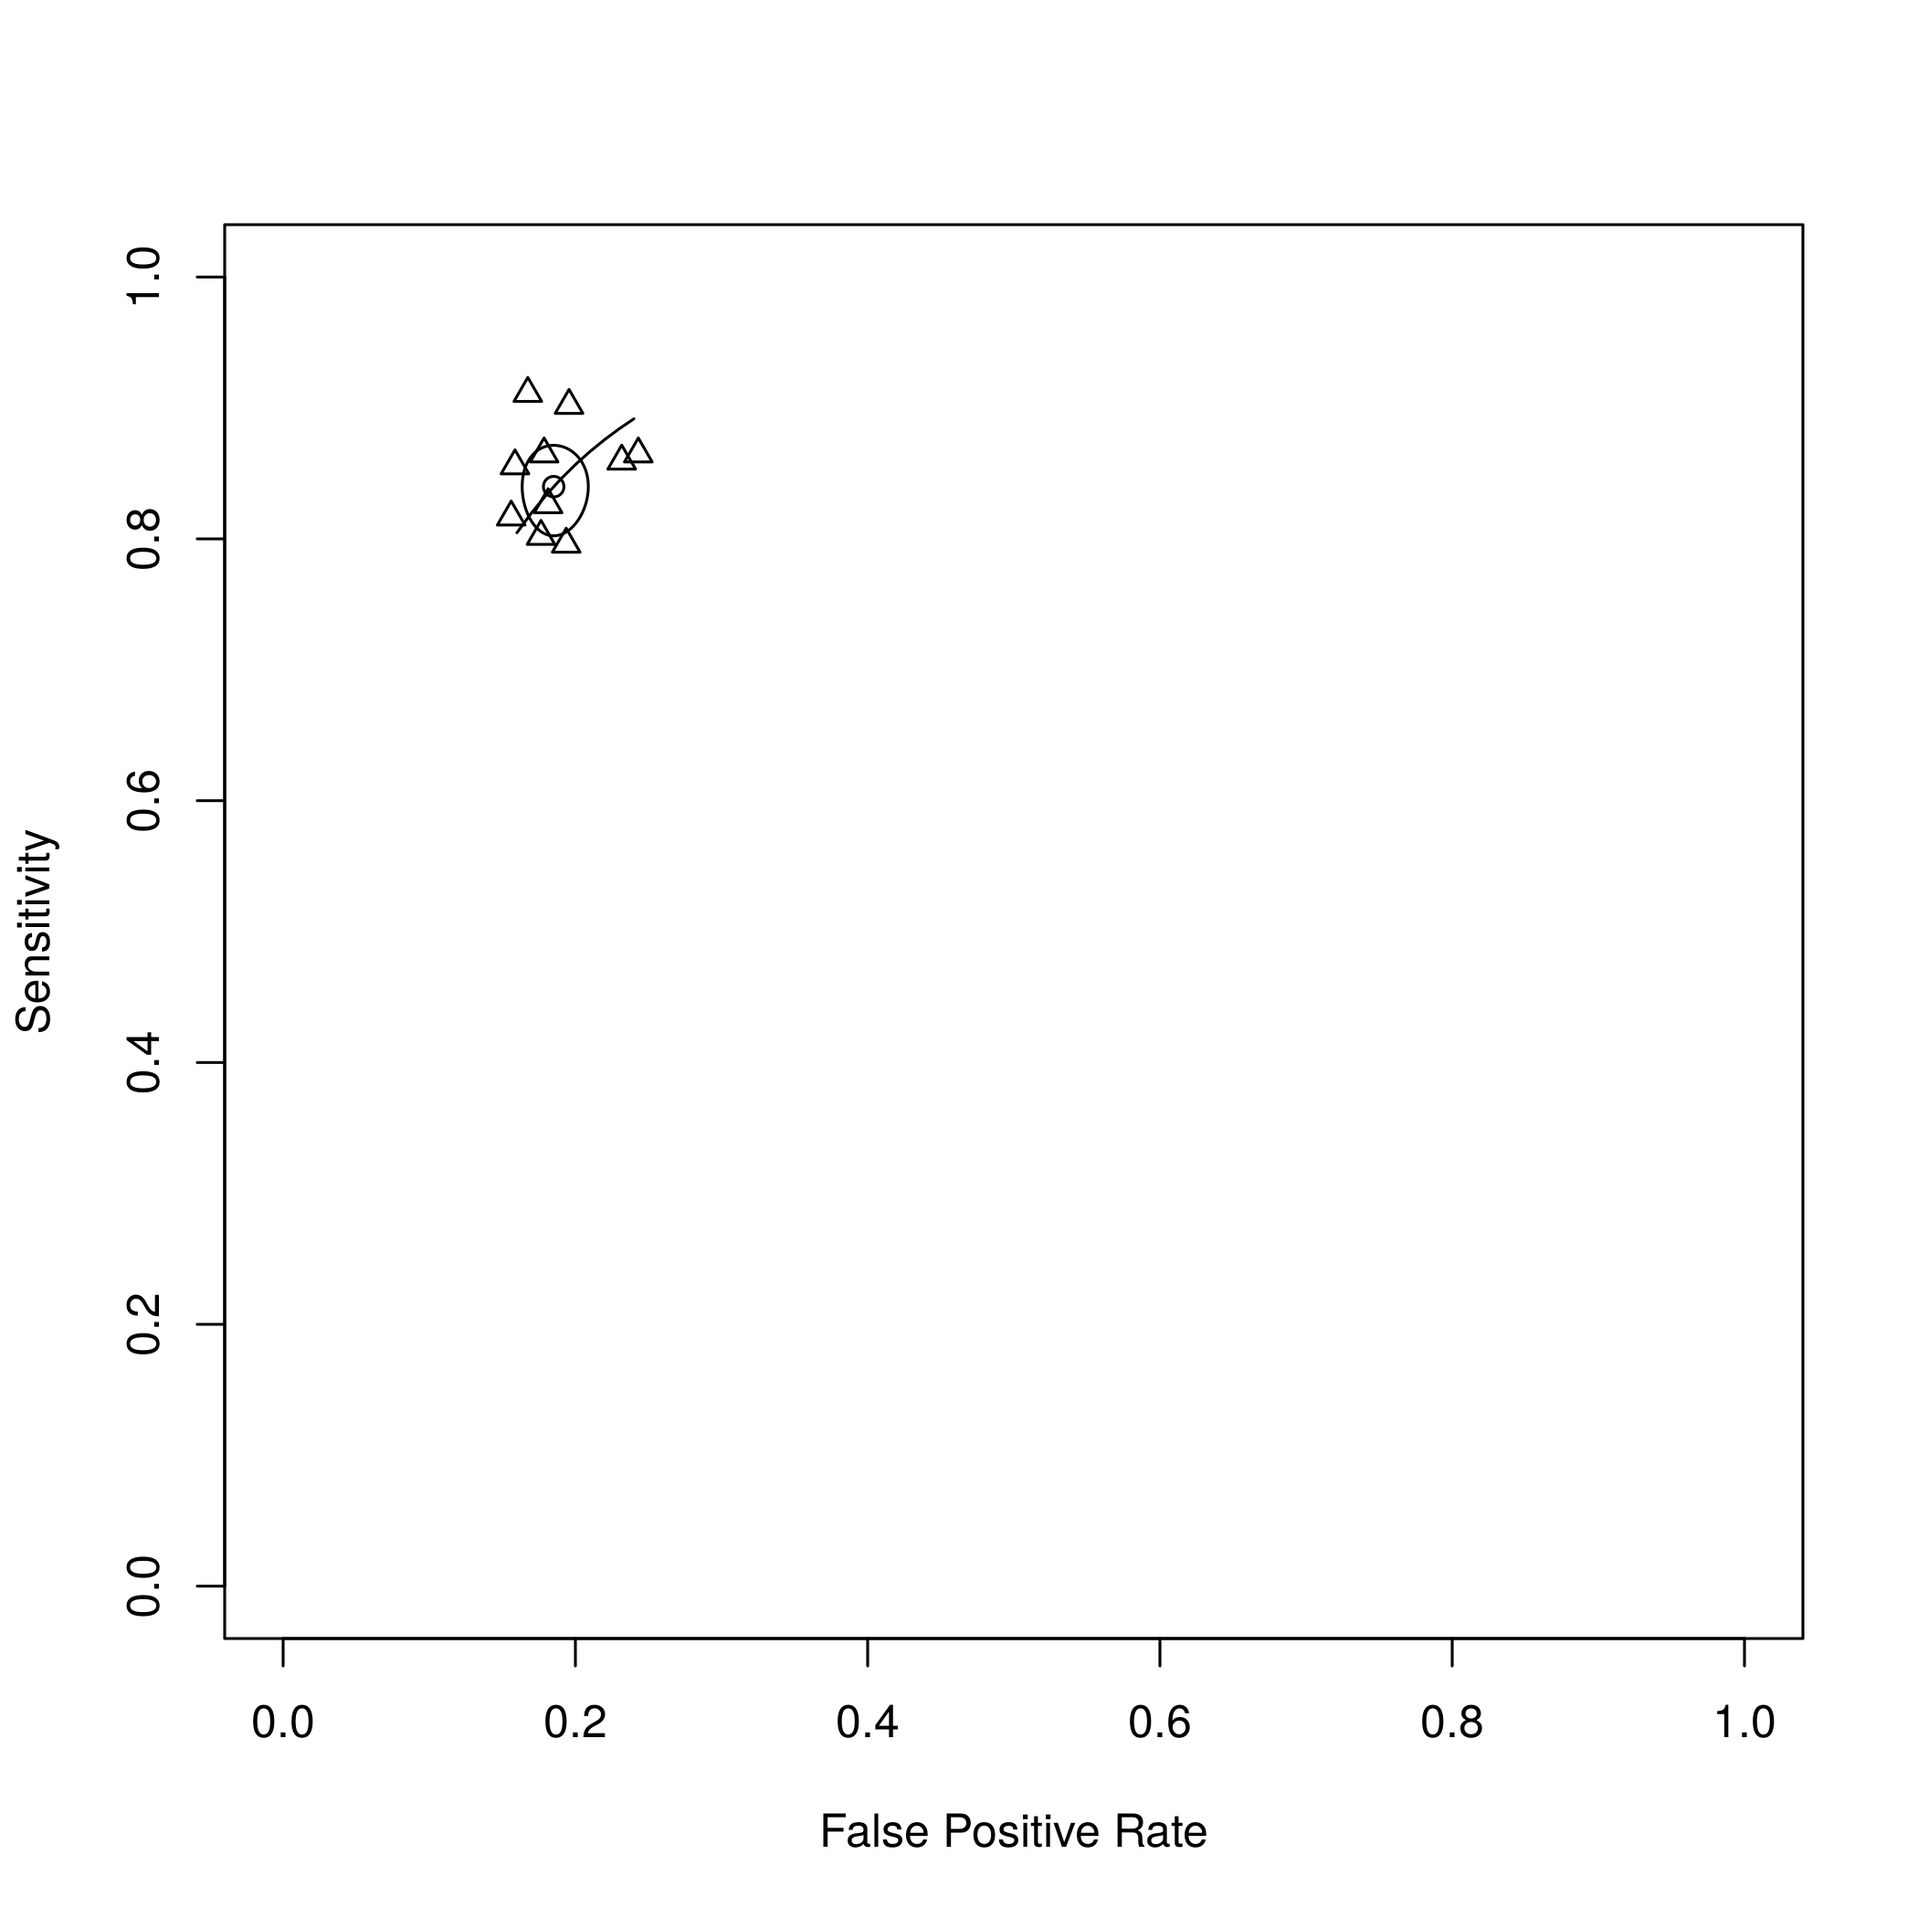
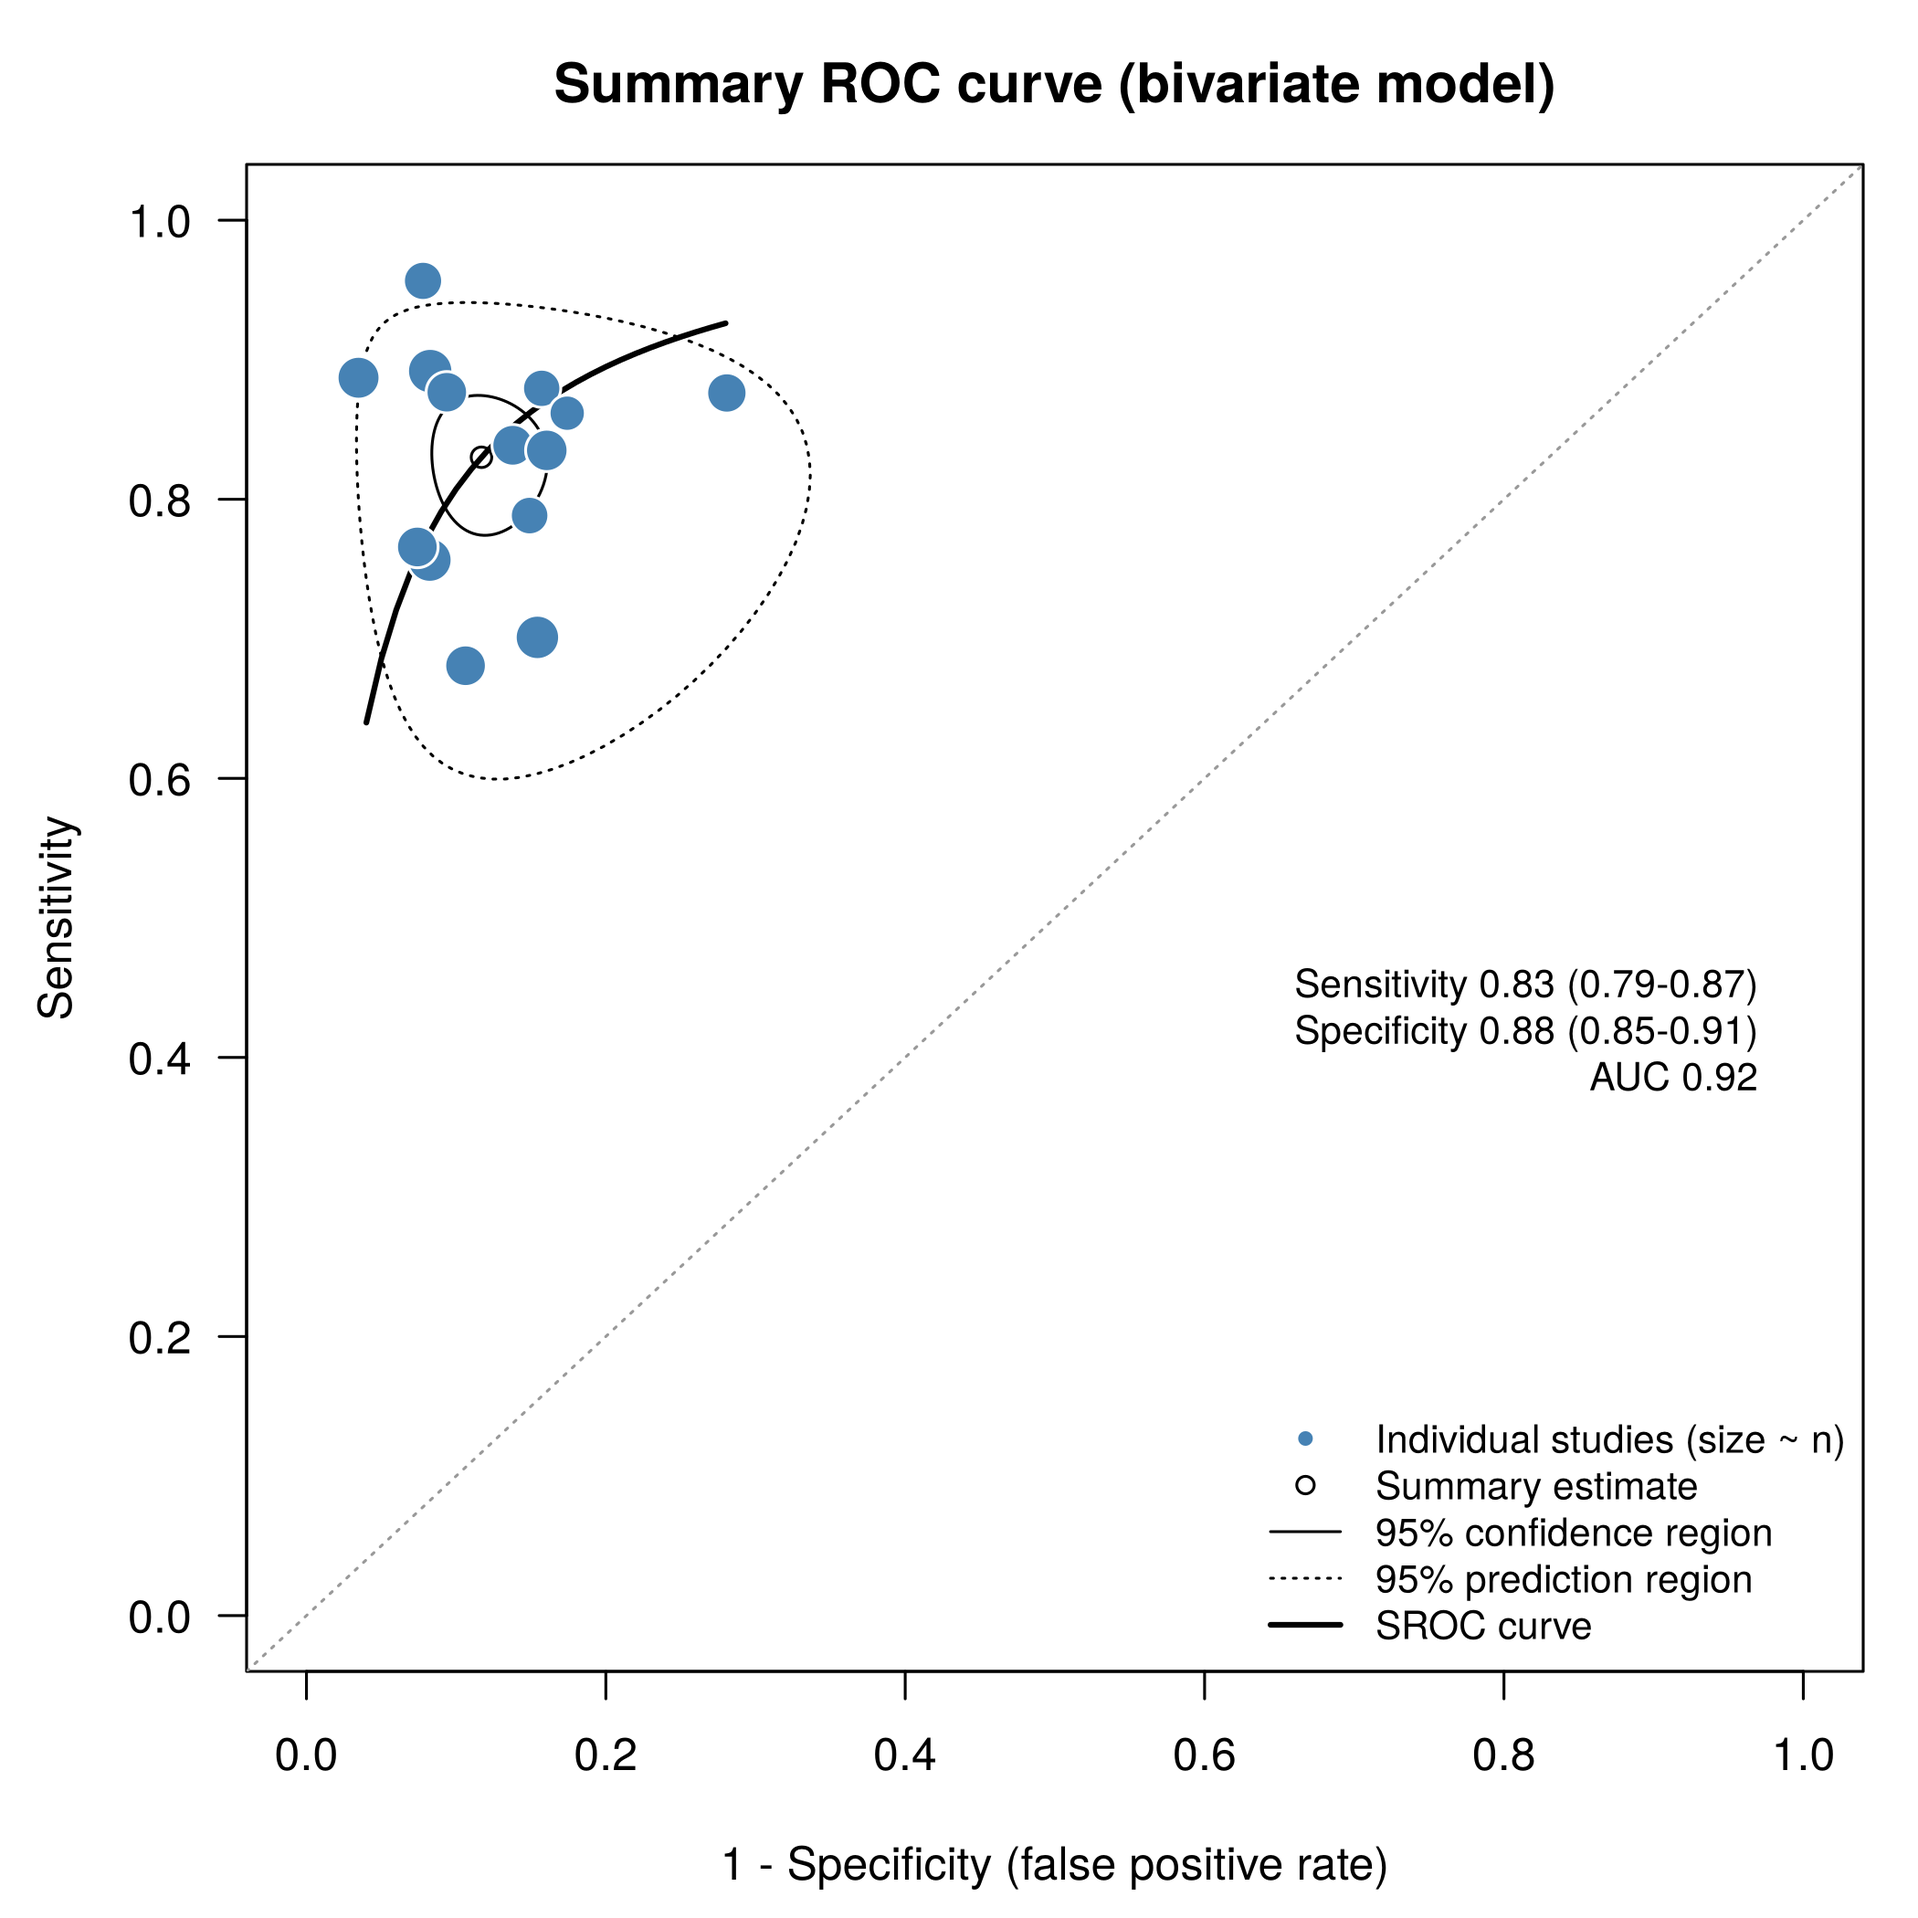
Regenerate SROC, Baujat and GOSH figures from clean example data
- New heterogeneity example (10 consistent trials + 2 discordant) for
  Baujat and GOSH; GOSH highlights subsets containing the outlier
- DTA example simulated with realistic between-study variation and a
  threshold effect; SROC now shows prediction region, legend, pooled
  sensitivity/specificity and AUC
- Add ma_baujat() (labels only influential studies) and ma_sroc() helpers
- Fix gosh(subsets = NA) in heterogeneity template

Claude-Session: https://claude.ai/code/session_01LHFQSmnLr7qSq8UaiuCwKB

diff --git a/README.md b/README.md
@@ -12,13 +12,13 @@ Built on the [`meta`](https://cran.r-project.org/package=meta), [`metafor`](http
 
 | File | Purpose |
 |---|---|
-| [`R/ma_toolkit.R`](R/ma_toolkit.R) | Helper functions: import, RevMan-style forest plots, plot saving, effect-size conversion, median→mean, sensitivity bundle, results sentence |
+| [`R/ma_toolkit.R`](R/ma_toolkit.R) | Helper functions: import, RevMan-style forest plots, plot saving, effect-size conversion, median→mean, clean Baujat and SROC plots, sensitivity bundle, results sentence |
 | [`R/01_pairwise_templates.R`](R/01_pairwise_templates.R) | Binary (`metabin`), continuous (`metacont`), generic OR/RR/HR (`metagen`), subgroups |
 | [`R/02_single_arm_templates.R`](R/02_single_arm_templates.R) | Proportions (`metaprop`), single means (`metamean`), median/IQR → mean (SD) |
 | [`R/03_heterogeneity_bias_templates.R`](R/03_heterogeneity_bias_templates.R) | Leave-one-out, Baujat, influence diagnostics, GOSH, L'Abbé, meta-regression, funnel, Egger, trim-and-fill |
 | [`R/04_network_ma_templates.R`](R/04_network_ma_templates.R) | Frequentist NMA (`netmeta`): network graph, league table, P-scores, node-splitting; Bayesian (`gemtc`) block |
 | [`R/05_diagnostic_ma_templates.R`](R/05_diagnostic_ma_templates.R) | DTA: pooled sensitivity/specificity, bivariate Reitsma model, SROC/AUC, DOR, Deeks' test, comparing two tests |
-| [`R/99_test_all.R`](R/99_test_all.R) | Runs every analysis on simulated data (15 checks) |
+| [`R/99_test_all.R`](R/99_test_all.R) | Runs every analysis on simulated data (16 checks) |
 | [`examples/quickstart.R`](examples/quickstart.R) | A complete analysis in about 20 lines |
 
 ## Quick start
@@ -80,11 +80,11 @@ One Excel workbook, one sheet per outcome, column names without spaces:
 | Subgroup forest plot | Proportion meta-analysis |
 |---|---|
 | <img src="docs/figures/acm_sub.png" width="420"> | <img src="docs/figures/prev_forest.png" width="420"> |
-| **Leave-one-out** | **Baujat plot** |
-| <img src="docs/figures/acm_leave1out.png" width="420"> | <img src="docs/figures/acm_baujat.png" width="420"> |
-| **Meta-regression bubble plot** | **GOSH plot** |
-| <img src="docs/figures/acm_bubble.png" width="420"> | <img src="docs/figures/acm_gosh.png" width="420"> |
-| **Network graph** | **SROC curve (diagnostic accuracy)** |
+| **Leave-one-out** | **Baujat plot** (two discordant trials flagged) |
+| <img src="docs/figures/acm_leave1out.png" width="420"> | <img src="docs/figures/het_baujat.png" width="420"> |
+| **Meta-regression bubble plot** | **GOSH plot** (red = subsets including the outlier) |
+| <img src="docs/figures/acm_bubble.png" width="420"> | <img src="docs/figures/het_gosh.png" width="420"> |
+| **Network graph** | **SROC curve** (bivariate model, 95% confidence + prediction regions) |
 | <img src="docs/figures/nma_net.png" width="420"> | <img src="docs/figures/dta_sroc.png" width="420"> |
 
 All example data are simulated and do not represent real trials.
@@ -95,7 +95,7 @@ Trial Sequential Analysis is run in the Copenhagen Trial Unit's [TSA software](h
 
 ## Tested with
 
-R 4.x · meta 8.5 · metafor 5.2 · netmeta 3.7 · mada 0.5 · estmeansd 1.0. The toolkit detects the `lab.e`/`label.e` rename in meta ≥ 8 automatically.
+R 4.x · meta 8.5 · metafor 4.4–5.2 · netmeta 3.7 · mada 0.5 · estmeansd 1.0. The toolkit detects the `lab.e`/`label.e` rename in meta ≥ 8 automatically.
 
 ## References
 
